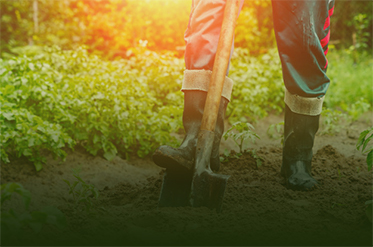
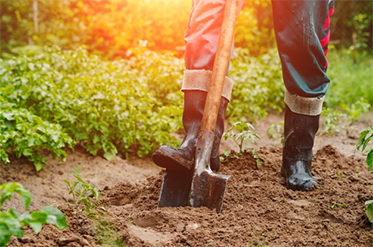
small fixes

diff --git a/index.html b/index.html
@@ -114,6 +114,7 @@
                 <div class="advantages__item">
                     <a href="#">
                         <img src="images/main/item1.jpg" alt="background">
+                        <div class="advantages__item__gradient"></div>
                         <div class="advantages__item_noHover">
                             <img class="advantages__item__icon" src="images/icons/recycle-solid.svg" alt="icon">
                             <div class="advantages__item__title">
@@ -133,6 +134,7 @@
                 <div class="advantages__item">
                     <a href="#">
                         <img src="images/main/item2.jpg" alt="background">
+                        <div class="advantages__item__gradient"></div>
                         <div class="advantages__item_noHover">
                             <img class="advantages__item__icon" src="images/icons/recycle-solid.svg" alt="icon">
                             <div class="advantages__item__title">
@@ -152,6 +154,7 @@
                 <div class="advantages__item">
                     <a href="#">
                         <img src="images/main/item3.jpg" alt="background">
+                        <div class="advantages__item__gradient"></div>
                         <div class="advantages__item_noHover">
                             <img class="advantages__item__icon" src="images/icons/recycle-solid.svg" alt="icon">
                             <div class="advantages__item__title">
@@ -172,6 +175,7 @@
                 <div class="advantages__item">
                     <a href="#">
                         <img src="images/main/item4.jpg" alt="background">
+                        <div class="advantages__item__gradient"></div>
                         <div class="advantages__item_noHover">
                             <img class="advantages__item__icon" src="images/icons/recycle-solid.svg" alt="icon">
                             <div class="advantages__item__title">
@@ -193,6 +197,7 @@
                 <div class="advantages__item">
                     <a href="#">
                         <img src="images/main/item5.jpg" alt="background">
+                        <div class="advantages__item__gradient"></div>
                         <div class="advantages__item_noHover">
                             <img class="advantages__item__icon" src="images/icons/recycle-solid.svg" alt="icon">
                             <div class="advantages__item__title">
@@ -214,6 +219,7 @@
                 <div class="advantages__item">
                     <a href="#">
                         <img src="images/main/item6.jpg" alt="background">
+                        <div class="advantages__item__gradient"></div>
                         <div class="advantages__item_noHover">
                             <img class="advantages__item__icon" src="images/icons/recycle-solid.svg" alt="icon">
                             <div class="advantages__item__title">
@@ -236,6 +242,7 @@
                 <div class="advantages__item">
                     <a href="#">
                         <img src="images/main/item7.jpg" alt="background">
+                        <div class="advantages__item__gradient"></div>
                         <div class="advantages__item_noHover">
                             <img class="advantages__item__icon" src="images/icons/recycle-solid.svg" alt="icon">
                             <div class="advantages__item__title">
@@ -255,6 +262,7 @@
                 <div class="advantages__item">
                     <a href="#">
                         <img src="images/main/item8.jpg" alt="background">
+                        <div class="advantages__item__gradient"></div>
                         <div class="advantages__item_noHover">
                             <img class="advantages__item__icon" src="images/icons/recycle-solid.svg" alt="icon">
                             <div class="advantages__item__title">
@@ -274,6 +282,7 @@
                 <div class="advantages__item">
                     <a href="#">
                         <img src="images/main/item9.jpg" alt="background">
+                        <div class="advantages__item__gradient"></div>
                         <div class="advantages__item_noHover">
                             <img class="advantages__item__icon" src="images/icons/recycle-solid.svg" alt="icon">
                             <div class="advantages__item__title">

diff --git a/css/style.css b/css/style.css
@@ -350,8 +350,11 @@ input[type=email] {
   display: flex;
   justify-content: space-between;
 }
-.firstScreen_half {
-  width: 49%;
+.firstScreen_half:first-child {
+  width: 44%;
+}
+.firstScreen_half:last-child {
+  width: 64%;
 }
 .firstScreen_half h1 {
   font-size: 68px;
@@ -419,6 +422,15 @@ input[type=email] {
 .advantages__item {
   width: 33%;
   margin-bottom: 5px;
+}
+.advantages__item__gradient {
+  background: #1c2b09;
+  background: linear-gradient(0deg, #1c2b09 0%, rgba(150, 194, 43, 0.2) 40%);
+  position: absolute;
+  top: 0;
+  bottom: 0;
+  left: 0;
+  right: 0;
 }
 .advantages__item_noHover {
   position: absolute;
@@ -849,7 +861,9 @@ input[type=email] {
   border: 2px solid #ffffff;
   text-align: center;
   border-radius: 50%;
-  padding: 15px;
+  padding-top: 45px;
+  width: 200px;
+  height: 200px;
 }
 .offer__price__wrapper {
   position: absolute;
@@ -858,6 +872,8 @@ input[type=email] {
   border-radius: 50%;
   background: #96c22b;
   padding: 5px;
+  width: 210px;
+  height: 210px;
 }
 .offer__price__title {
   font-size: 20px;

diff --git a/css/style.sass b/css/style.sass
@@ -130,7 +130,12 @@
   justify-content: space-between
 
   &_half
-    width: 49%
+
+    &:first-child
+      width: 44%
+
+    &:last-child
+      width: 64%
 
     h1
       @include font($blue, $extraBold, 800, 68px)
@@ -179,6 +184,15 @@
   &__item
     width: 33%
     margin-bottom: 5px
+
+    &__gradient
+      background: rgb(28,43,9)
+      background: linear-gradient(0deg, rgba(28,43,9,1) 0%, rgba(150,194,43,0.2) 40%)
+      position: absolute
+      top: 0
+      bottom: 0
+      left: 0
+      right: 0
 
     &_noHover
       position: absolute
@@ -490,7 +504,9 @@
     border: 2px solid $white
     text-align: center
     border-radius: 50%
-    padding: 15px
+    padding-top: 45px
+    width: 200px
+    height: 200px
 
     &__wrapper
       position: absolute
@@ -499,6 +515,8 @@
       border-radius: 50%
       background: $lightGreen
       padding: 5px
+      width: 210px
+      height: 210px
 
     &__title
       @include font($white, $extraBold, 800, 20px)
